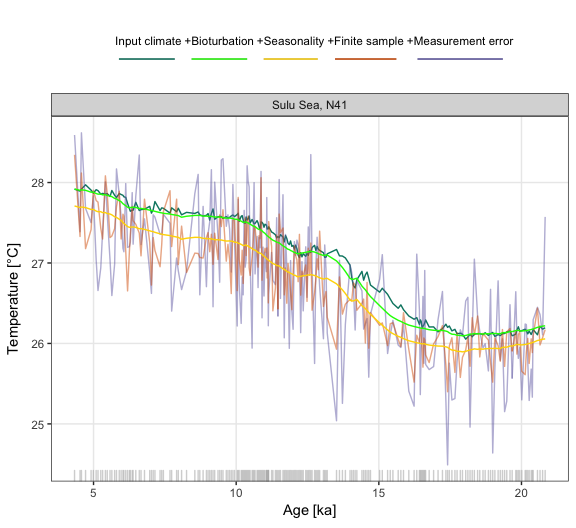
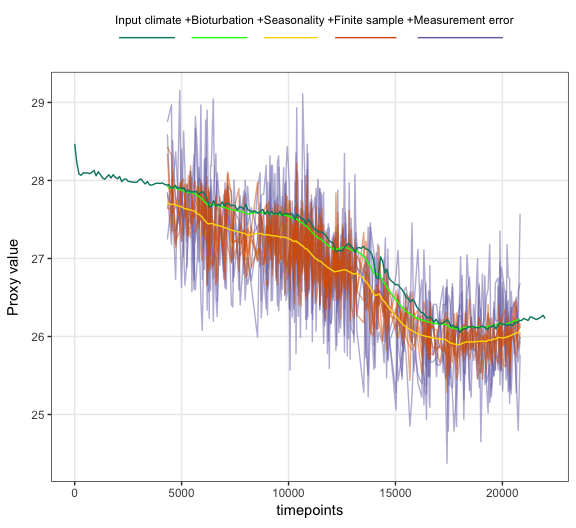
fix levels plotting order (must not use group aesthetic)

diff --git a/readme.md b/readme.md
@@ -69,18 +69,18 @@ The first 5 rows:
 
 
 ```r
-knitr::kable(N41.t21k.climate[1:5,], format = "markdown")
+knitr::kable(N41.t21k.climate[1:5,], format = "markdown", digits = 2)
 ```
 
 
 
-|        1|        2|        3|        4|        5|        6|        7|        8|        9|       10|       11|       12|
-|--------:|--------:|--------:|--------:|--------:|--------:|--------:|--------:|--------:|--------:|--------:|--------:|
-| 297.8568| 297.3878| 298.0602| 299.2245| 299.6761| 300.2167| 300.5483| 299.9182| 299.6400| 299.6386| 299.9301| 299.3381|
-| 297.9886| 297.5341| 297.8263| 299.0083| 299.7151| 299.6743| 300.1609| 300.6685| 299.7819| 299.8497| 299.7823| 298.9699|
-| 297.8427| 297.7466| 298.3599| 299.1459| 299.6056| 300.0913| 300.1500| 300.1423| 299.5427| 299.5985| 299.8105| 298.9172|
-| 297.6961| 297.6659| 298.4921| 299.5137| 300.0200| 299.8971| 300.4432| 299.9803| 299.6973| 300.0648| 299.7363| 298.9907|
-| 297.7691| 297.3436| 297.9452| 299.1741| 299.9940| 299.8244| 300.1444| 300.3978| 299.9496| 300.1610| 299.8150| 298.9635|
+|      1|      2|      3|      4|      5|      6|      7|      8|      9|     10|     11|     12|
+|------:|------:|------:|------:|------:|------:|------:|------:|------:|------:|------:|------:|
+| 297.86| 297.39| 298.06| 299.22| 299.68| 300.22| 300.55| 299.92| 299.64| 299.64| 299.93| 299.34|
+| 297.99| 297.53| 297.83| 299.01| 299.72| 299.67| 300.16| 300.67| 299.78| 299.85| 299.78| 298.97|
+| 297.84| 297.75| 298.36| 299.15| 299.61| 300.09| 300.15| 300.14| 299.54| 299.60| 299.81| 298.92|
+| 297.70| 297.67| 298.49| 299.51| 300.02| 299.90| 300.44| 299.98| 299.70| 300.06| 299.74| 298.99|
+| 297.77| 297.34| 297.95| 299.17| 299.99| 299.82| 300.14| 300.40| 299.95| 300.16| 299.82| 298.96|
 
 **Actual proxy record**
 
@@ -114,24 +114,12 @@ kable(head(N41.proxy), format = "markdown")
 set.seed(26052017)
 
 PFM <- ClimToProxyClim(clim.signal = N41.t21k.climate[nrow(N41.t21k.climate):1,] - 273.15, 
-                       timepoints = N41.proxy$Published.age,
+                       timepoints = round(N41.proxy$Published.age),
                        proxy.calibration.type = "identity",
                 seas.prod = N41.G.ruber.seasonality,
                 sed.acc.rate = N41.proxy$Sed.acc.rate.m.yr,
                 meas.noise = 0.46, n.samples = 30,
                 n.replicates = 10)
-```
-
-```
-## Warning in FUN(X[[i]], ...): Window extends below end of clim.signal
-```
-
-```
-## Warning in FUN(X[[i]], ...): Bioturbation window extends below end of
-## clim.signal
-
-## Warning in FUN(X[[i]], ...): Bioturbation window extends below end of
-## clim.signal
 ```
 
 
@@ -153,12 +141,12 @@ head(PFM$simulated.proxy)
 ## # A tibble: 6 x 17
 ##   timepoints clim.signal.ann clim.timepoints.1000 clim.timepoints.100
 ##        <dbl>           <dbl>                <dbl>               <dbl>
-## 1   4334.286        28.02843             27.93745            27.91754
-## 2   4527.429        27.64365             27.92579            27.90224
-## 3   4575.714        27.85549             27.92432            27.89784
-## 4   4720.571        27.78637             27.91322            27.93882
-## 5   4913.714        28.10193             27.89451            27.90577
-## 6   4994.400        28.02830             27.89069            27.88720
+## 1       4334        28.02843             27.93745            27.91754
+## 2       4527        27.64365             27.92579            27.90224
+## 3       4576        28.27605             27.92421            27.89731
+## 4       4721        28.18325             27.91341            27.94076
+## 5       4914        27.91505             27.89494            27.90284
+## 6       4994        28.02830             27.89069            27.88720
 ## # ... with 13 more variables: clim.timepoints.50 <dbl>,
 ## #   clim.timepoints.ssr <dbl>, proxy.bt <dbl>, proxy.bt.sb <dbl>,
 ## #   sed.acc.rate <dbl>, smoothing.width <dbl>, proxy.bt.sb.sampY <dbl>,
@@ -171,18 +159,8 @@ head(PFM$simulated.proxy)
 
 
 ```r
-plot.df <- PFM$simulated.proxy %>% 
-  select(timepoints, clim.timepoints.50, proxy.bt, proxy.bt.sb,
-         proxy.bt.sb.sampYM, proxy.bt.sb.sampYM.b.n) %>% 
-  gather(Stage, Temperature, -timepoints) %>% 
-  mutate(Age = timepoints,
-         Temperature = Temperature) 
-
-plot.df %>% 
-  # Add Location and ID.no for plotting function 
-  mutate(Location = "Sulu Sea", 
-         ID.no = "N41") %>% 
-  PlotPFMs(.)
+PFM$everything %>% 
+  PlotPFMs()
 ```
 
 ```
@@ -197,25 +175,22 @@ plot.df %>%
 
 
 ```r
-head(PFM$everything$proxy.bt.sb.sampYM.b.n)
+PFM$everything %>% 
+  filter(stage == "simulated.proxy") %>% 
+  spread(replicate, value) %>% 
+  slice(1:5) %>% 
+  kable(., digits = 2, format = "markdown")
 ```
 
-```
-##          [,1]     [,2]     [,3]     [,4]     [,5]     [,6]     [,7]
-## [1,] 28.59077 27.24216 27.85101 27.82210 28.74879 27.67043 28.23568
-## [2,] 27.38899 27.74220 27.17901 27.67571 28.97121 27.13761 26.69763
-## [3,] 28.61761 28.02140 27.98333 27.54683 27.49677 27.94618 27.71461
-## [4,] 27.67856 27.10352 28.39432 26.83184 27.48668 27.38606 28.26002
-## [5,] 27.50167 27.73817 27.50510 29.26476 27.52106 28.31881 28.45814
-## [6,] 27.83441 27.93680 26.63038 27.21916 28.40145 27.23655 27.37571
-##          [,8]     [,9]    [,10]
-## [1,] 27.60570 28.44858 27.47944
-## [2,] 27.63600 28.05558 28.13290
-## [3,] 28.48741 27.18754 27.96795
-## [4,] 27.79744 27.76411 27.48290
-## [5,] 28.66557 28.20030 28.47205
-## [6,] 28.06648 28.03758 27.63359
-```
+
+
+| timepoints|stage           |     1|     2|     3|     4|     5|     6|     7|     8|     9|    10|
+|----------:|:---------------|-----:|-----:|-----:|-----:|-----:|-----:|-----:|-----:|-----:|-----:|
+|       4334|simulated.proxy | 28.59| 27.24| 27.85| 27.82| 28.75| 27.67| 28.24| 27.61| 28.45| 27.48|
+|       4527|simulated.proxy | 27.39| 27.74| 27.18| 27.68| 28.97| 27.14| 26.70| 27.64| 28.06| 28.13|
+|       4576|simulated.proxy | 28.52| 27.93| 27.88| 27.69| 27.36| 27.86| 27.95| 28.40| 27.17| 27.99|
+|       4721|simulated.proxy | 27.72| 27.18| 28.37| 26.73| 27.36| 27.41| 28.22| 27.74| 27.84| 27.45|
+|       4914|simulated.proxy | 27.44| 27.90| 27.40| 29.15| 27.55| 28.36| 28.29| 28.63| 28.08| 28.43|
 
 
 ### Proxy types
@@ -227,7 +202,7 @@ The initial input climate signal can be converted into "proxy units" if a `proxy
 ```r
 set.seed(26052017)
 PFM_2 <- ClimToProxyClim(clim.signal = N41.t21k.climate[nrow(N41.t21k.climate):1,] - 273.15, 
-                         timepoints = N41.proxy$Published.age,
+                         timepoints = round(N41.proxy$Published.age),
                          proxy.calibration.type = "MgCa",
                          seas.prod = N41.G.ruber.seasonality,
                          sed.acc.rate = N41.proxy$Sed.acc.rate.m.yr,
@@ -235,34 +210,13 @@ PFM_2 <- ClimToProxyClim(clim.signal = N41.t21k.climate[nrow(N41.t21k.climate):1
                          n.replicates = 1)
 ```
 
-```
-## Warning in FUN(X[[i]], ...): Window extends below end of clim.signal
-```
-
-```
-## Warning in FUN(X[[i]], ...): Bioturbation window extends below end of
-## clim.signal
-
-## Warning in FUN(X[[i]], ...): Bioturbation window extends below end of
-## clim.signal
-```
-
+`PlotPFM` returns a ggplot2 object so it is easy to customize figures with new axes labels an such
 
 
 ```r
-plot.df <- PFM_2$simulated.proxy %>% 
-  select(timepoints, clim.timepoints.50, proxy.bt, proxy.bt.sb,
-         proxy.bt.sb.sampYM, proxy.bt.sb.sampYM.b.n) %>% 
-  gather(Stage, Temperature, -timepoints) %>% 
-  mutate(Age = timepoints,
-         Temperature = Temperature) 
-
-plot.df %>% 
-  # Add Location and ID.no for plotting function 
-  mutate(Location = "Sulu Sea", 
-         ID.no = "N41") %>% 
+PFM_2$everything %>% 
   PlotPFMs(.) +
-  labs(y = "MgCa")
+  labs(y = "Mg/Ca")
 ```
 
 ```
